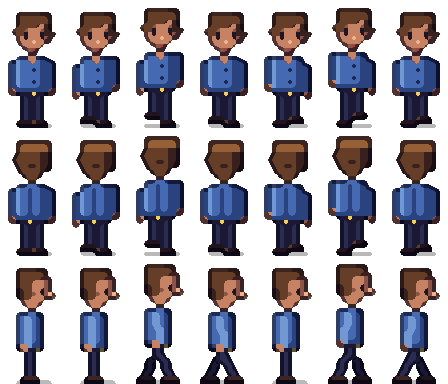
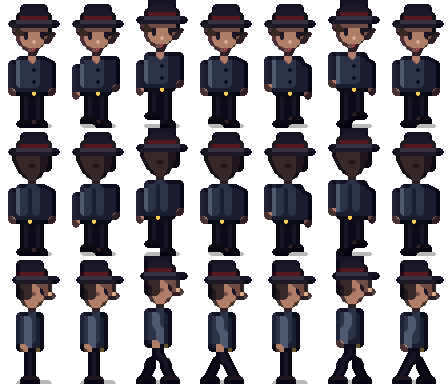
Restyle the art as noir, early evening, with baked pools of light

diff --git a/CLAUDE.md b/CLAUDE.md
@@ -97,4 +97,4 @@ All art is placeholder (now 4x resolution, see below), generated by throwaway sc
 
 ## Art resolution
 
-The picture is natively 1280x720: the room renders into a 1280x720 target (`ui::RENDER_SCALE` = 4, nearest filtered) and every image has 4 pixels per game unit (backgrounds 1280x720, a 64x128 character frame drawn 16x32 units, props with `scale = 4` in the room file, the cursor 40x56). Game coordinates, scripts, hotspots and walk areas are still in the 320x180 virtual space; sprites snap to 1/4 unit. The art is designed on a 320x180 grid (hand-picked colour ramps, Bayer dithering, hue-shifted shadows, a darkened one pixel outline, in the style of Thimbleweed Park) by a throwaway C# program (System.Drawing via PowerShell `Add-Type`, not in the repo), then upscaled 4x with Scale2x twice (rounds off staircases without blending colours) and, for room backgrounds, a little per-pixel grain. The cursor is that program's 4x upscale of the original 10x14 arrow, drawn at `size() / RENDER_SCALE`. Item icons in the panel are still flat colour squares.
+The look is film noir, early evening: dark desaturated palettes with blue shadows, a dusk sky in the window, warm pools of light (lamps, the back bar, a wall sconce) baked into the art by the generator (`Lit` with dithered bands) and a trench coat and fedora on the player. The picture is natively 1280x720: the room renders into a 1280x720 target (`ui::RENDER_SCALE` = 4, nearest filtered) and every image has 4 pixels per game unit (backgrounds 1280x720, a 64x128 character frame drawn 16x32 units, props with `scale = 4` in the room file, the cursor 40x56). Game coordinates, scripts, hotspots and walk areas are still in the 320x180 virtual space; sprites snap to 1/4 unit. The art is designed on a 320x180 grid (hand-picked colour ramps, Bayer dithering, hue-shifted shadows, a darkened one pixel outline, in the style of Thimbleweed Park) by a throwaway C# program (System.Drawing via PowerShell `Add-Type`, not in the repo), then upscaled 4x with Scale2x twice (rounds off staircases without blending colours) and, for room backgrounds, a little per-pixel grain. The cursor is that program's 4x upscale of the original 10x14 arrow, drawn at `size() / RENDER_SCALE`. Item icons in the panel are still flat colour squares.
